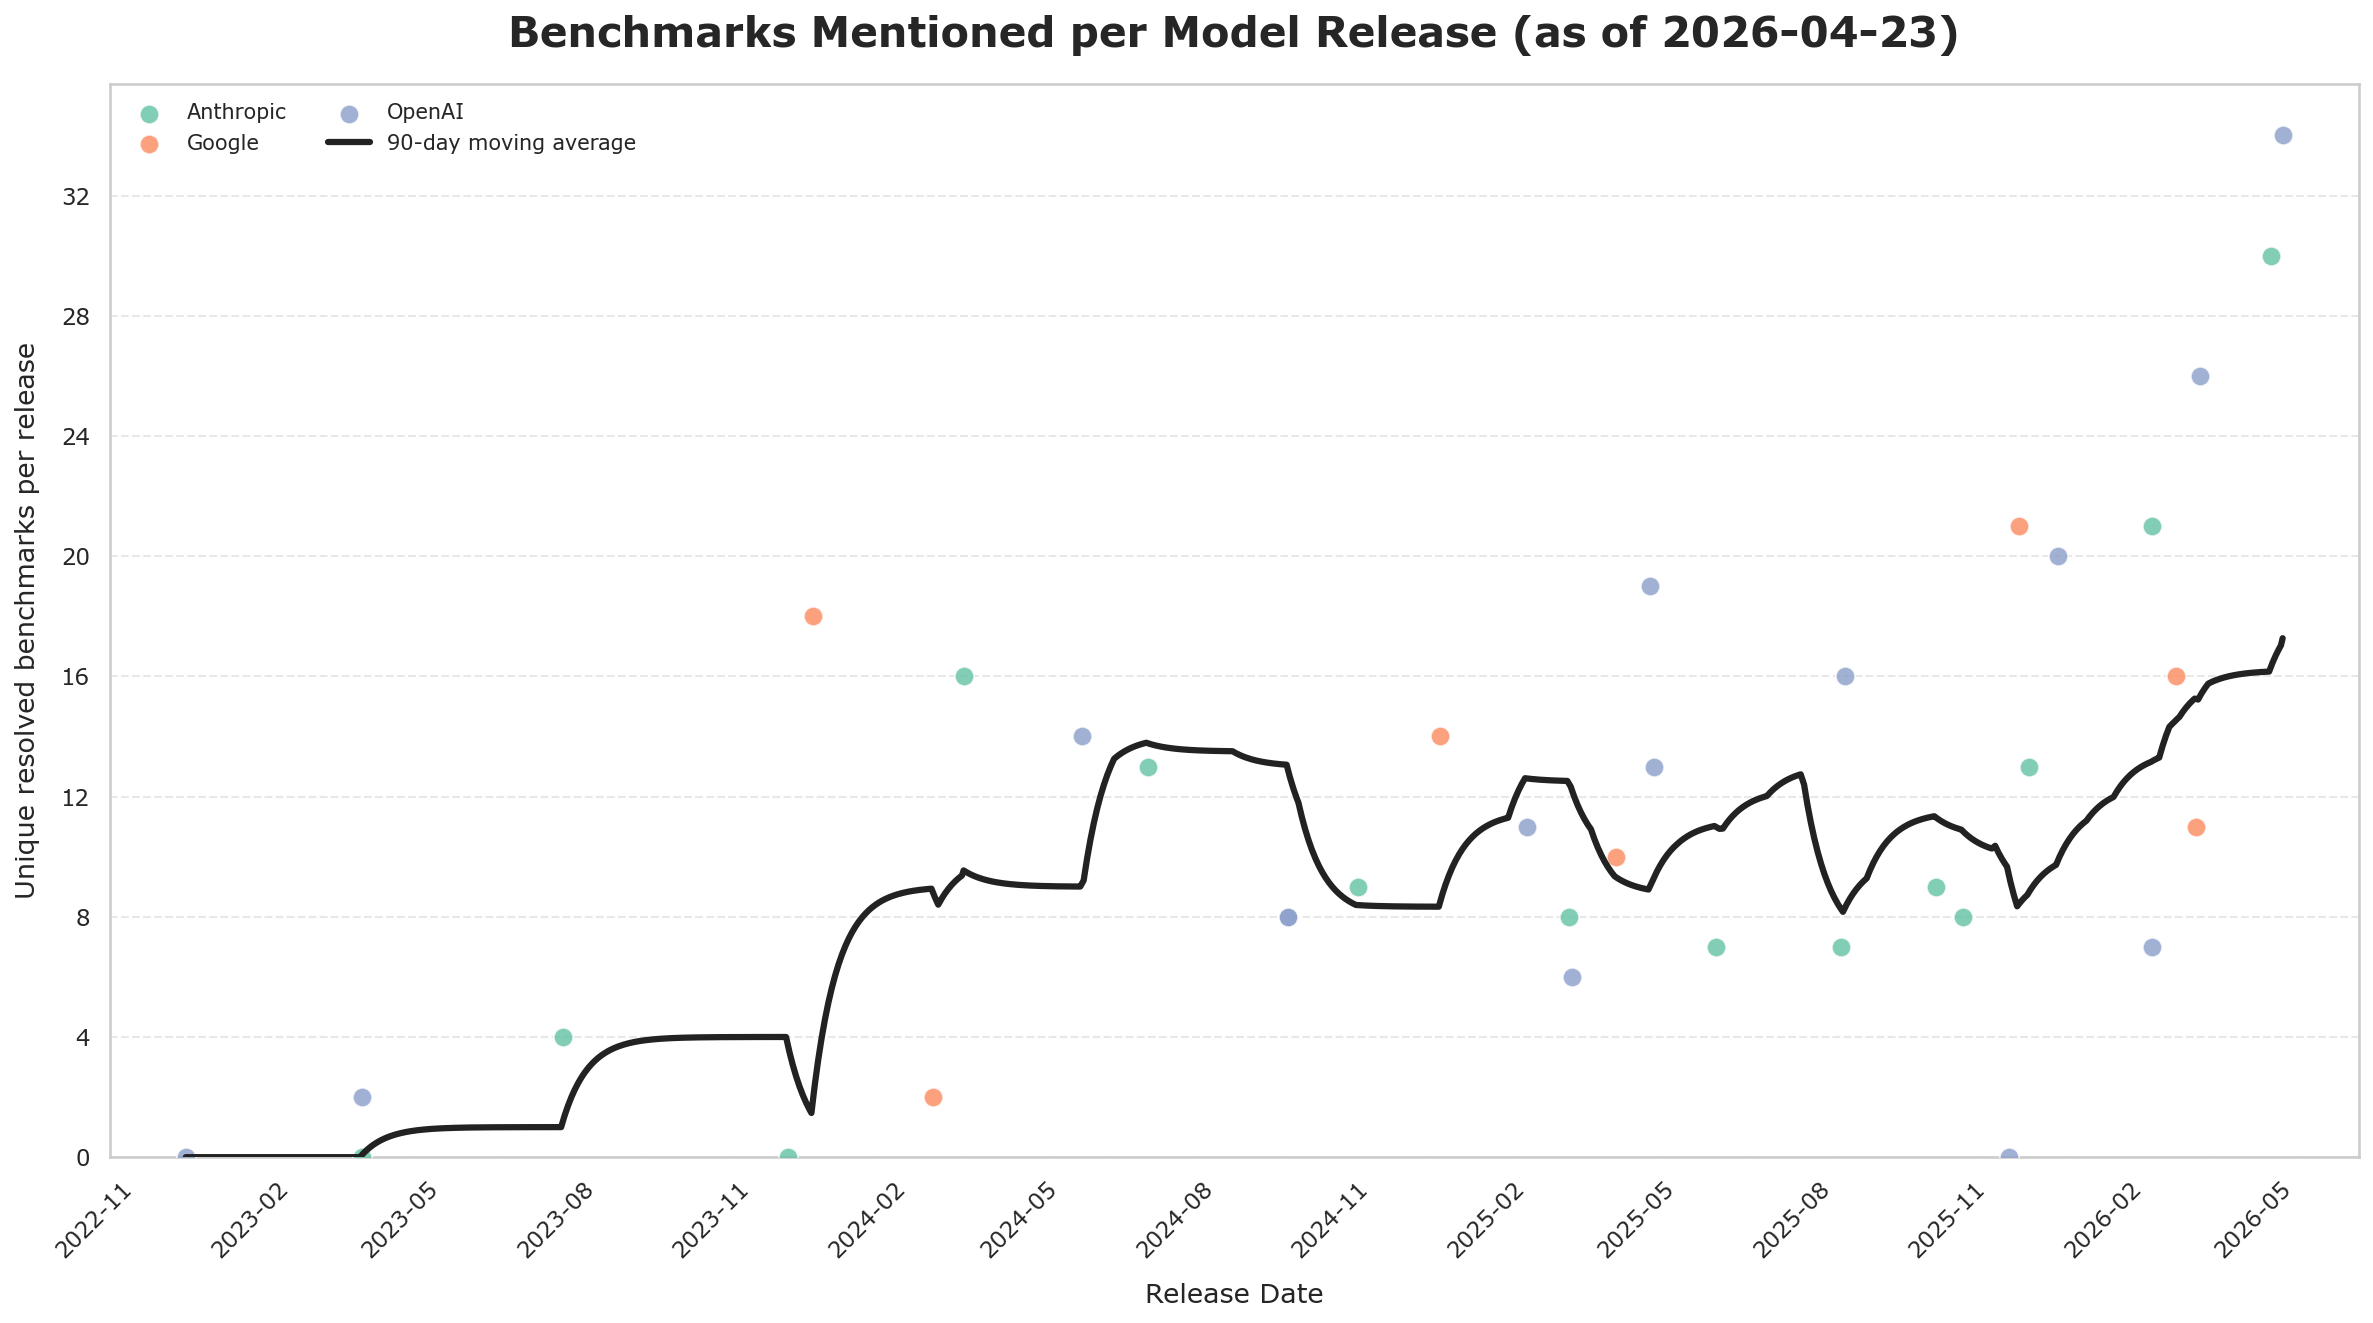
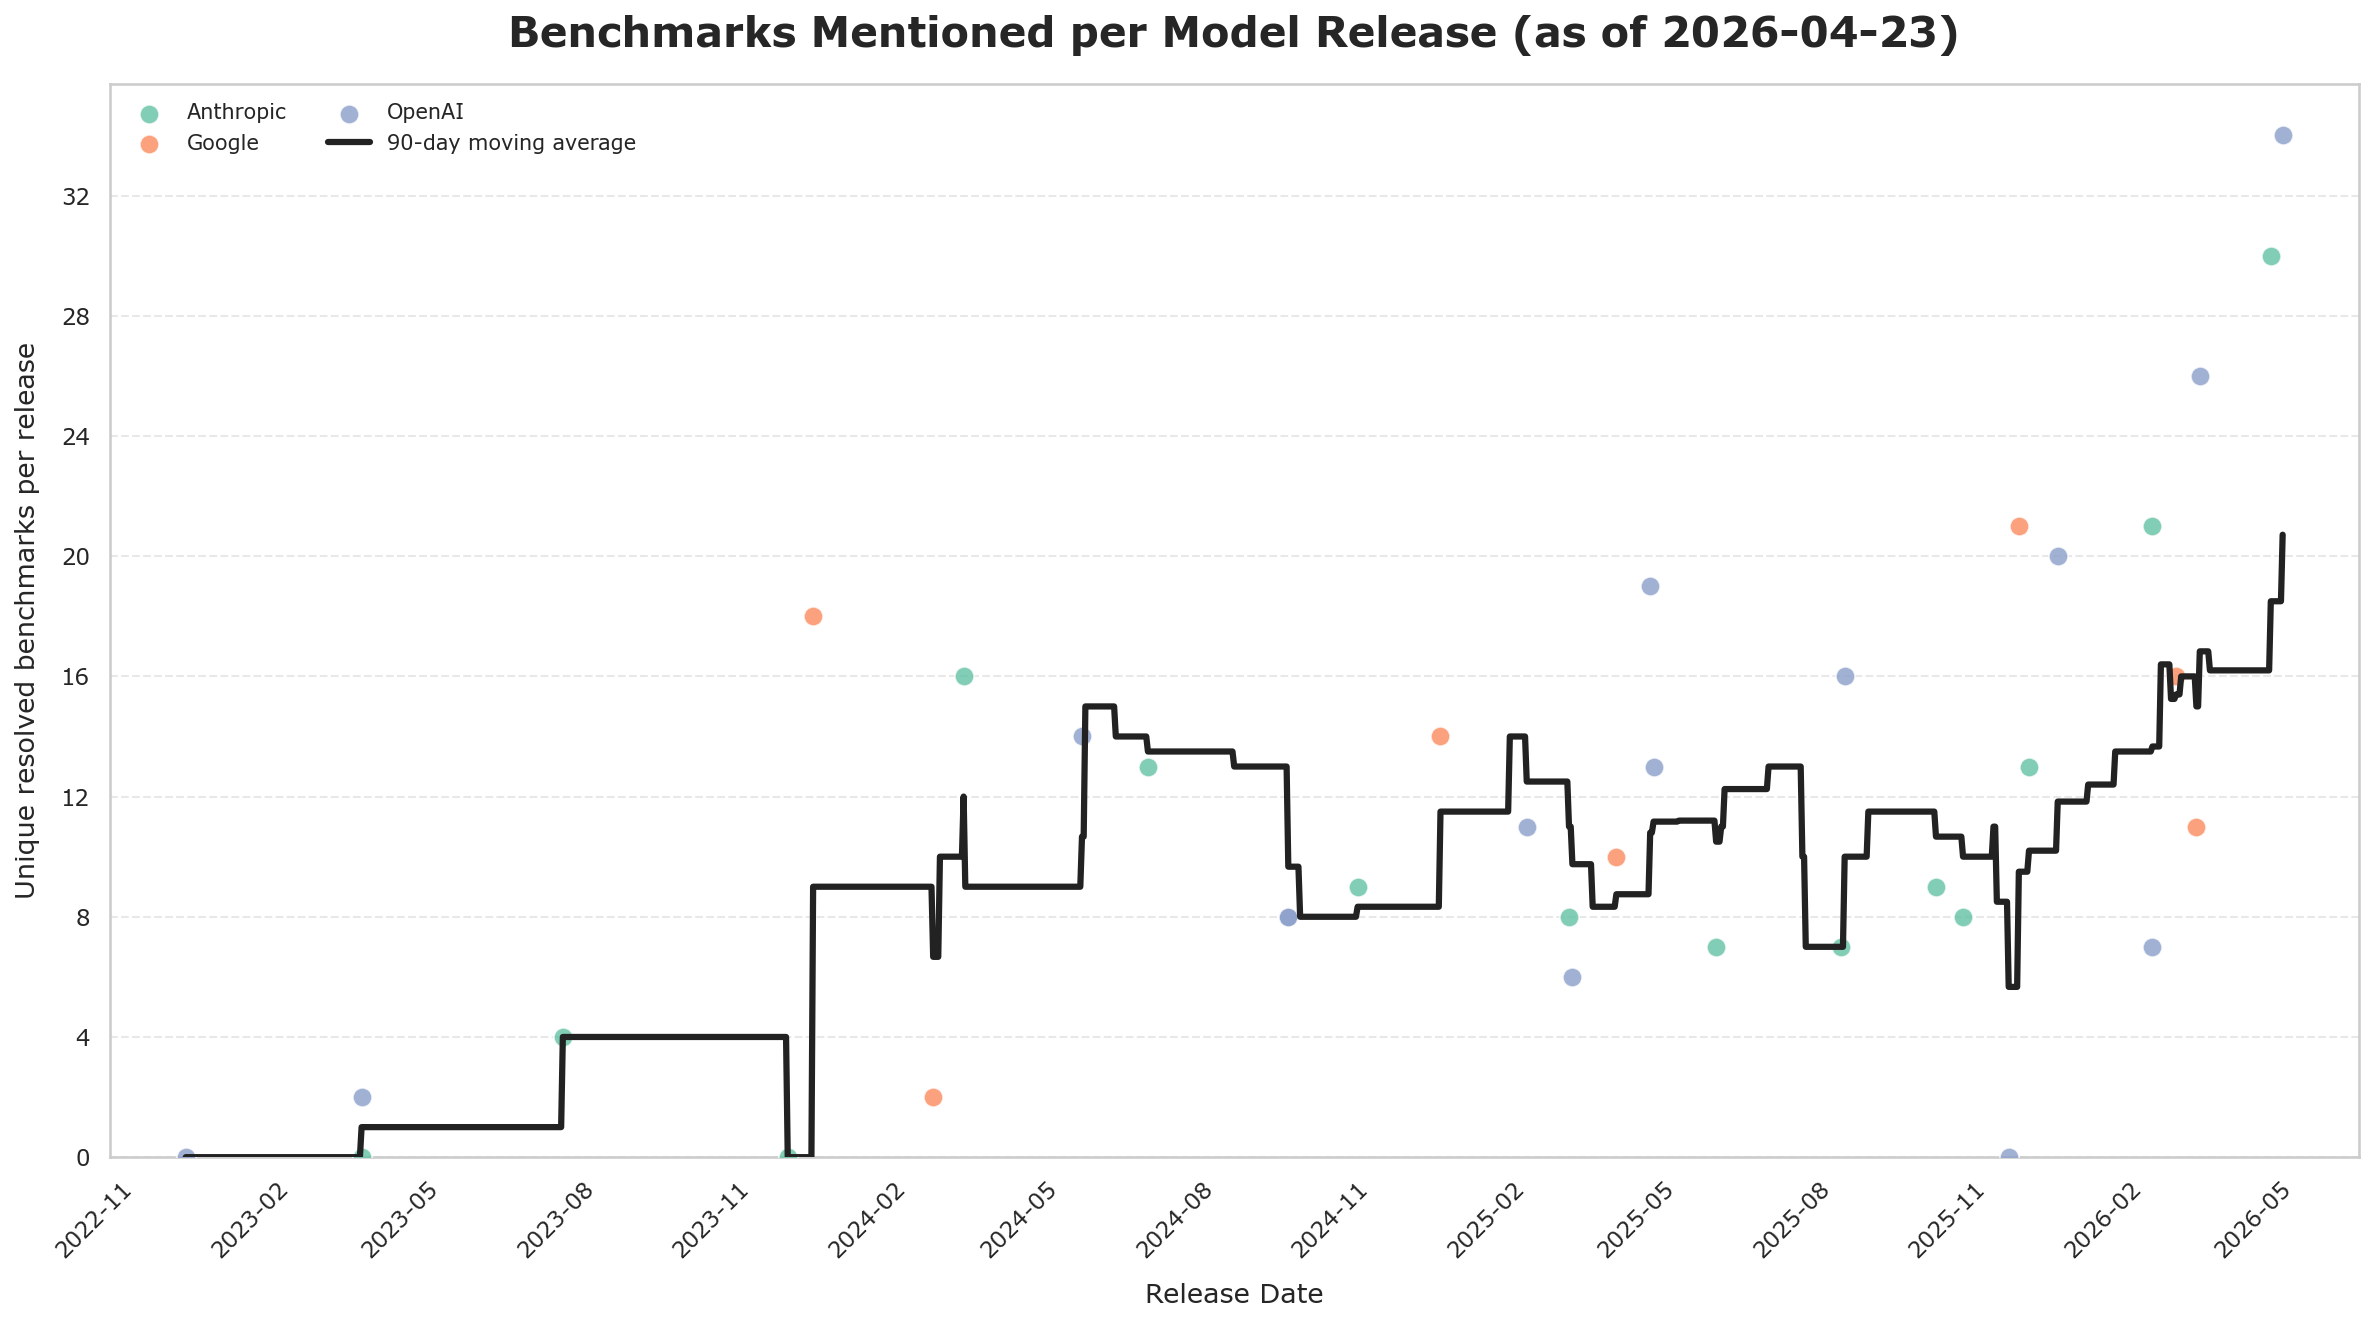
Address README workflow review feedback

diff --git a/scraping/review_packet.py b/scraping/review_packet.py
@@ -179,7 +179,7 @@ def generate_packet(data: Mapping[str, Any], source_path: Path) -> str:
             "- Add aliases to `data/benchmark_aliases.csv` only for exact, source-backed identity mappings.",
             "- Record unresolved variants or construct concerns directly in `data/benchmarks.csv` or temporary `data/benchmark_facet_manual.csv`.",
             "- Add audited multi-facet annotations to temporary `data/benchmark_facet_manual.csv`, then integrate them into `data/benchmark_facets.csv` with `scripts/build_normalized_data.py`.",
-            "- Regenerate normalized data, README, and chart assets; then run validation.",
+            "- Regenerate normalized data and chart assets; then run validation.",
             "",
             "```bash",
             "AS_OF=YYYY-MM-DD",
@@ -187,11 +187,10 @@ def generate_packet(data: Mapping[str, Any], source_path: Path) -> str:
             "python scripts/build_normalized_data.py",
             "python scripts/validate_data.py",
             "python analysis/benchmark_evolution/analyze.py --as-of \"$AS_OF\" --strict-resolution",
-            "python analysis/benchmark_taxonomy_trends/task_mode_trend.py --as-of \"$AS_OF\" --window-days 180 --strict-resolution",
-            "python analysis/benchmark_taxonomy_trends/separate_axis_trends.py --as-of \"$AS_OF\" --window-days 180 --review-debt-output assets/benchmark_review_debt.png --strict-resolution",
-            "python analysis/benchmark_taxonomy_trends/facet_trends.py --as-of \"$AS_OF\" --window-days 180 --strict-resolution",
+            "python analysis/benchmark_evolution/benchmark_count_trend.py --as-of \"$AS_OF\" --window-days 90 --strict-resolution",
+            "python analysis/benchmark_taxonomy_trends/separate_axis_trends.py --as-of \"$AS_OF\" --window-days 180 --strict-resolution",
+            "python analysis/benchmark_taxonomy_trends/facet_trends.py --as-of \"$AS_OF\" --window-days 180 --top-labels 8 --strict-resolution",
             "python analysis/readme_story/analyze.py --as-of \"$AS_OF\"",
-            "python scripts/update_readme.py",
             "python scripts/validate_data.py",
             "```",
             "",

diff --git a/tests/test_benchmark_count_trend.py b/tests/test_benchmark_count_trend.py
@@ -1,0 +1,55 @@
+from __future__ import annotations
+
+import sys
+import unittest
+from pathlib import Path
+
+import pandas as pd
+
+ROOT = Path(__file__).resolve().parents[1]
+sys.path.insert(0, str(ROOT / "analysis" / "benchmark_evolution"))
+sys.path.insert(0, str(ROOT / "scripts"))
+
+from benchmark_count_trend import build_release_counts, smooth_counts  # noqa: E402
+from taxonomy_utils import CanonicalBenchmark, CanonicalResolver  # noqa: E402
+
+
+class BenchmarkCountTrendTests(unittest.TestCase):
+    def test_release_counts_keep_zero_benchmark_releases_and_smooth_full_date_range(self) -> None:
+        models = pd.DataFrame(
+            [
+                {
+                    "Provider": "TestLab",
+                    "Model name": "No Bench Model",
+                    "release date": "2024-01-01",
+                    "benchmarks": "",
+                },
+                {
+                    "Provider": "TestLab",
+                    "Model name": "Bench Model",
+                    "release date": "2024-01-10",
+                    "benchmarks": "Alpha, Alpha, Beta",
+                },
+            ]
+        )
+        resolver = CanonicalResolver(
+            [
+                CanonicalBenchmark("benchmark_alpha", "Alpha", "fixture", 1),
+                CanonicalBenchmark("benchmark_beta", "Beta", "fixture", 2),
+            ]
+        )
+        as_of = pd.Timestamp("2024-01-12")
+
+        counts = build_release_counts(models, as_of, resolver=resolver, strict_resolution=True)
+        counts = counts.sort_values("Date").reset_index(drop=True)
+        trend = smooth_counts(counts, as_of, window_days=90)
+
+        self.assertEqual(counts.loc[0, "BenchmarkCount"], 0)
+        self.assertEqual(counts.loc[1, "BenchmarkCount"], 2)
+        self.assertEqual(counts.loc[1, "ResolvedMentionCount"], 3)
+        self.assertEqual(len(trend), (as_of - pd.Timestamp("2024-01-01")).days + 1)
+        self.assertAlmostEqual(trend.iloc[-1]["SmoothedBenchmarkCount"], 1.0)
+
+
+if __name__ == "__main__":
+    unittest.main()

diff --git a/analysis/benchmark_evolution/benchmark_count_trend.py b/analysis/benchmark_evolution/benchmark_count_trend.py
@@ -103,20 +103,19 @@ def smooth_counts(counts_df, as_of, window_days):
     )
     rolling_totals = daily["total_benchmarks"].rolling(window_days, min_periods=1).sum()
     rolling_releases = daily["release_count"].rolling(window_days, min_periods=1).sum()
-    rolling_average = (rolling_totals / rolling_releases.where(rolling_releases > 0)).ffill()
-    smoothed = rolling_average.ewm(span=30, adjust=False).mean()
+    moving_average = rolling_totals / rolling_releases.where(rolling_releases > 0)
 
     return pd.DataFrame(
         {
             "Date": daily_index,
-            "SmoothedBenchmarkCount": smoothed.fillna(0).to_numpy(),
+            "SmoothedBenchmarkCount": moving_average.ffill().fillna(0).to_numpy(),
         }
     )
 
 
 def generate_graph(
     as_of=None,
-    window_days=180,
+    window_days=90,
     output_path="assets/benchmark_count_per_release.png",
     strict_resolution=False,
 ):

diff --git a/analysis/benchmark_taxonomy_trends/README.md b/analysis/benchmark_taxonomy_trends/README.md
@@ -5,23 +5,20 @@ The scripts here answer related but separate questions about how release-page be
 
 ## Scripts
 
-- `task_mode_trend.py`: rolling facet-derived headline task-mode projection used for `assets/benchmark_growth.png`.
-- `separate_axis_trends.py`: separate headline task-mode and v3 domain facet trends used for `assets/benchmark_growth_by_all_category.png`, with optional review-debt chart output.
+- `task_mode_trend.py`: legacy standalone headline task-mode projection kept for ad hoc comparison.
+- `separate_axis_trends.py`: separate headline task-mode and v3 domain facet trends used for `assets/benchmark_growth_by_all_category.png`.
 - `facet_trends.py`: rolling trends over the richer multi-facet taxonomy used for `assets/benchmark_facet_trends.png`.
 
 ## Run
 
 ```bash
-.venv/bin/python analysis/benchmark_taxonomy_trends/task_mode_trend.py --as-of 2026-04-23 --window-days 180 --strict-resolution
-.venv/bin/python analysis/benchmark_taxonomy_trends/separate_axis_trends.py --as-of 2026-04-23 --window-days 180 --review-debt-output assets/benchmark_review_debt.png --strict-resolution
-.venv/bin/python analysis/benchmark_taxonomy_trends/facet_trends.py --as-of 2026-04-23 --window-days 180 --strict-resolution
+.venv/bin/python analysis/benchmark_taxonomy_trends/separate_axis_trends.py --as-of 2026-04-23 --window-days 180 --strict-resolution
+.venv/bin/python analysis/benchmark_taxonomy_trends/facet_trends.py --as-of 2026-04-23 --window-days 180 --top-labels 8 --strict-resolution
 ```
 
 ## Outputs
 
-- `assets/benchmark_growth.png`
 - `assets/benchmark_growth_by_all_category.png`
-- `assets/benchmark_review_debt.png`
 - `assets/benchmark_facet_trends.png`
 
 All shares are release-page benchmark-framing views. Each release page contributes equal total weight; when a resolved benchmark has multiple labels within the plotted facet axis, that benchmark's contribution is divided equally across those labels. These charts should not be read as capability measurements.

diff --git a/analysis/benchmark_evolution/README.md b/analysis/benchmark_evolution/README.md
@@ -14,4 +14,4 @@ This analysis generates the top-level benchmark evolution timeline and benchmark
 - `assets/benchmark_evolution.png`
 - `assets/benchmark_count_per_release.png`
 
-The charts visualize benchmark framing on public release pages, not direct model capability.
+The charts visualize benchmark framing on public release pages, not a direct measurement of model capability.
